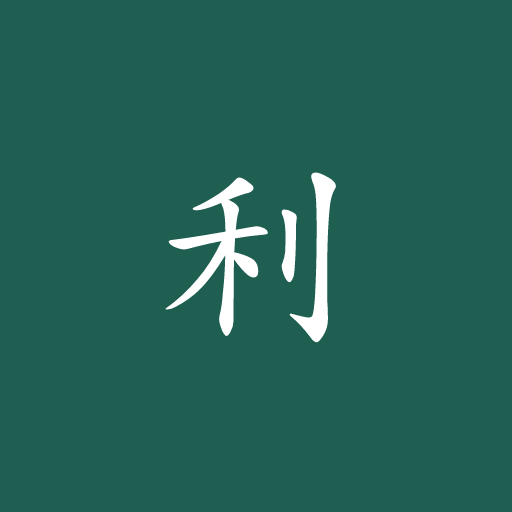
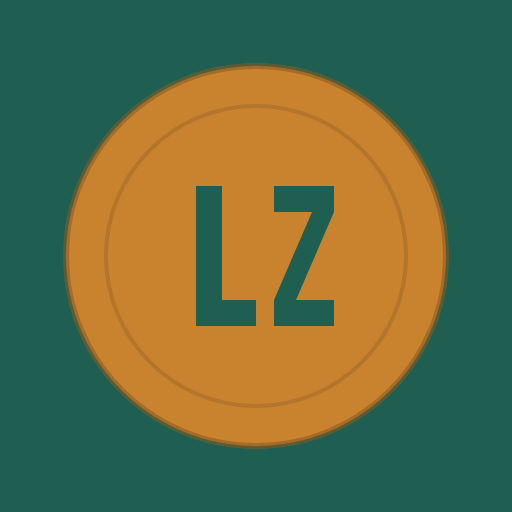
Redesign brand mark: coin with a fused LZ monogram hole
Replaces the placeholder "利" glyph mark with a custom brand mark for
利澤 (Lize): a stylized ancient 方孔圓錢 (round coin, square hole) whose
central hole is cut into a fused "LZ" monogram instead of a plain square
— the coin (budget/finance, the app's core concept) and the initials
(Lize) share one shape rather than being two separate elements bolted
together.

- scripts/generate-pwa-icons.mjs: regenerated as pure geometry (no text
  glyphs, no font dependency) so it's fully deterministic across
  machines/CI. The coin's radius comfortably fits the maskable icon's
  safe zone, so the same artwork is used unmodified for all icon
  purposes (any + maskable) instead of needing a simplified variant.
- New src/components/BrandMark.jsx: the same mark as inline SVG, so the
  in-app header/login logo (previously a plain teal box with "利") stays
  visually consistent with the installed app icon instead of diverging
  from it.

diff --git a/src/components/BrandMark.jsx b/src/components/BrandMark.jsx
@@ -1,0 +1,22 @@
+// The app's brand mark: a stylized ancient 方孔圓錢 (round coin, square hole)
+// whose hole is cut into a fused "LZ" monogram (Lize) instead of a plain
+// square. Kept as one inline SVG (rather than an <img> to the generated PWA
+// icon) so it matches scripts/generate-pwa-icons.mjs's geometry exactly at
+// any inline size without a network request.
+export default function BrandMark({ size = 32 }) {
+  return (
+    <svg width={size} height={size} viewBox="0 0 512 512" style={{ flex: 'none' }}>
+      <rect width="512" height="512" rx="128" fill="#1F5F52" />
+      <circle cx="256" cy="256" r="190" fill="#C9832F" />
+      <circle cx="256" cy="256" r="190" fill="none" stroke="#8A5A1E" strokeWidth="6" opacity="0.55" />
+      <circle cx="256" cy="256" r="150" fill="none" stroke="#8A5A1E" strokeWidth="4" opacity="0.35" />
+      <g fill="#1F5F52">
+        <rect x="196" y="186" width="26" height="140" />
+        <rect x="196" y="300" width="60" height="26" />
+        <rect x="274" y="186" width="60" height="26" />
+        <rect x="274" y="300" width="60" height="26" />
+        <path d="M 334 212 L 296 300 L 274 300 L 312 212 Z" />
+      </g>
+    </svg>
+  );
+}

diff --git a/src/pages/Login.jsx b/src/pages/Login.jsx
@@ -2,6 +2,7 @@ import { useEffect, useState } from 'react';
 import { useAuth } from '../contexts/AuthContext';
 import { isFirebaseConfigured } from '../firebase';
 import { card, input, label, btnPrimary } from '../styles';
+import BrandMark from '../components/BrandMark';
 
 export default function Login() {
   const {
@@ -46,7 +47,7 @@ export default function Login() {
     <div style={{ minHeight: '100vh', display: 'flex', alignItems: 'center', justifyContent: 'center', background: '#F5F3EE', padding: 20 }}>
       <div style={{ ...card, width: 'min(400px, 100%)' }}>
         <div style={{ display: 'flex', alignItems: 'center', gap: 10, marginBottom: 20 }}>
-          <div style={{ width: 32, height: 32, borderRadius: 8, background: '#1F5F52', display: 'flex', alignItems: 'center', justifyContent: 'center', font: "700 14px Inter, sans-serif", color: '#fff' }}>利</div>
+          <BrandMark size={32} />
           <div style={{ font: "700 15px 'Noto Sans TC', sans-serif", color: '#1E2420' }}>利澤國小基金預算管理系統</div>
         </div>
 

diff --git a/src/components/Header.jsx b/src/components/Header.jsx
@@ -1,4 +1,5 @@
 import { useAuth } from '../contexts/AuthContext';
+import BrandMark from './BrandMark';
 
 export default function Header({ year, setYear, years, onMenuClick }) {
   const { profile, user, logout } = useAuth();
@@ -19,11 +20,7 @@ export default function Header({ year, setYear, years, onMenuClick }) {
             </svg>
           </button>
         )}
-        <div style={{
-          width: 32, height: 32, borderRadius: 8, background: '#1F5F52',
-          display: 'flex', alignItems: 'center', justifyContent: 'center',
-          font: "700 14px Inter, sans-serif", color: '#fff', flex: 'none',
-        }}>利</div>
+        <BrandMark size={32} />
         <div style={{
           font: "700 15px 'Noto Sans TC', sans-serif", color: '#1E2420',
           overflow: 'hidden', textOverflow: 'ellipsis', whiteSpace: 'nowrap',
